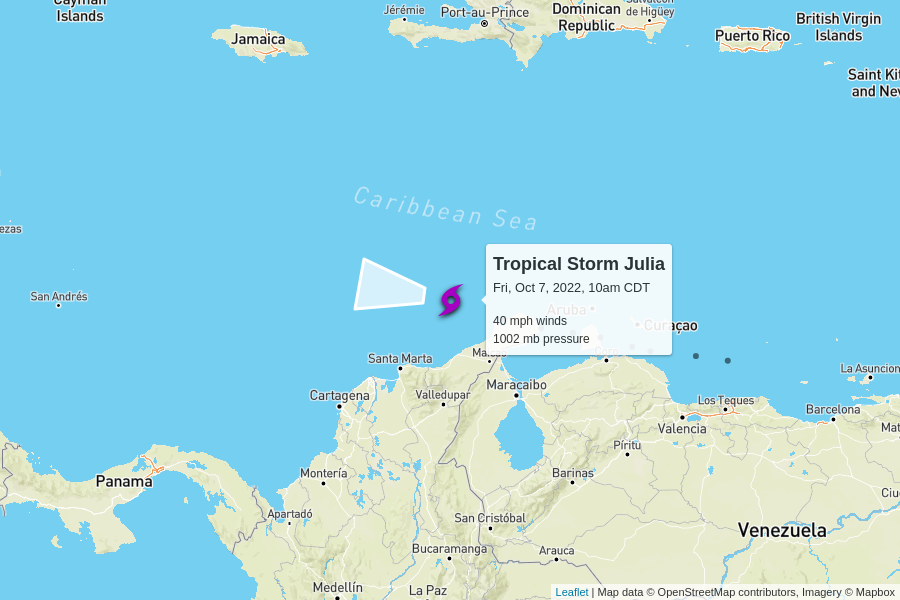
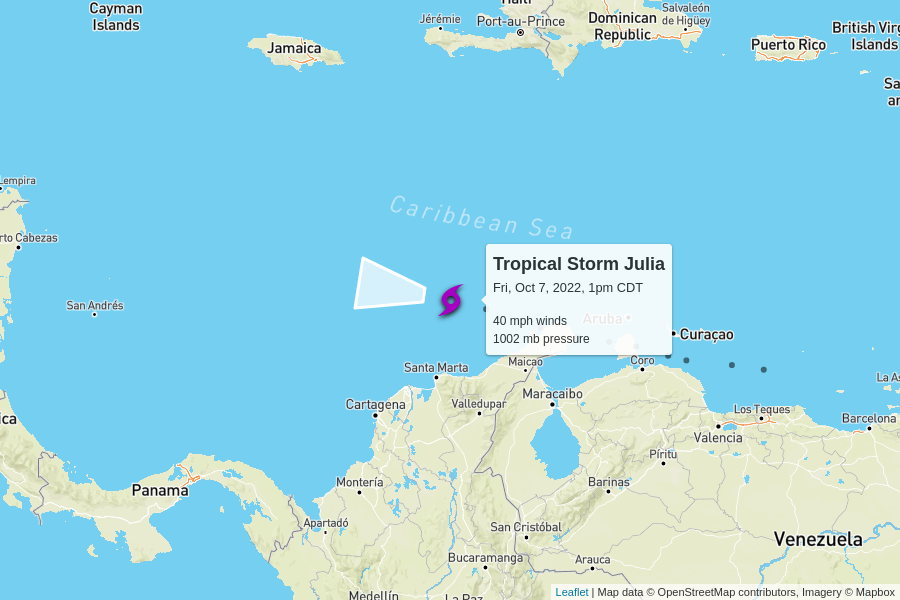
automatic update

diff --git a/docs/index.html b/docs/index.html
@@ -100,7 +100,7 @@
         <td colspan="6" class="storm category-0" >
           <h2>
             Tropical Storm Julia
-            <p class="updated">last updated <span data-time>2022-10-07T15:00:00.000Z</span></p>
+            <p class="updated">last updated <span data-time>2022-10-07T18:00:00.000Z</span></p>
           </h2>
         </td>
       </tr>
